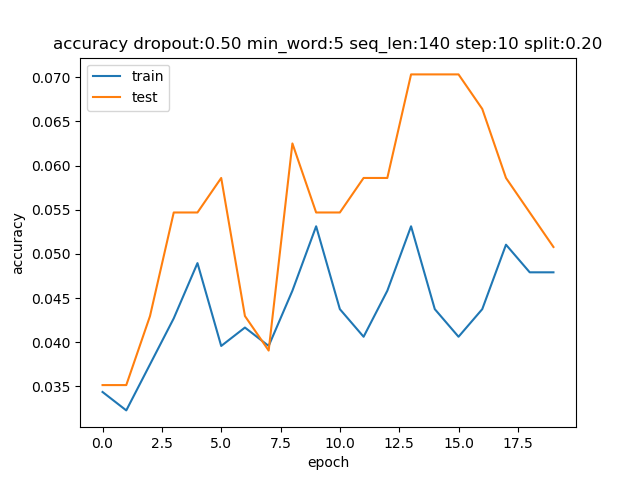
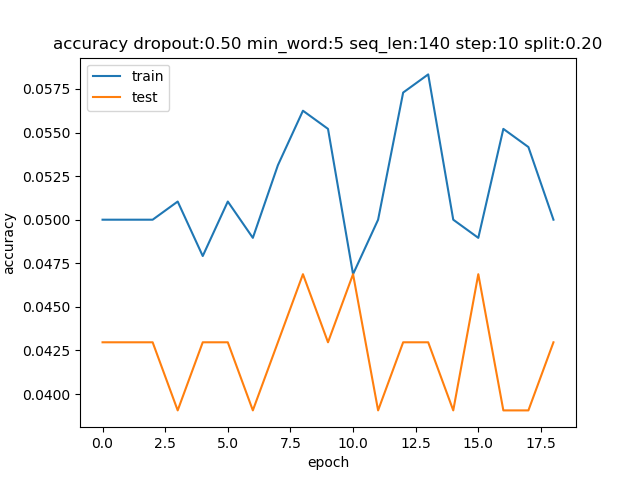
Update latest tests and output files.

diff --git a/read_data.py b/read_data.py
@@ -95,51 +95,49 @@ def reviewStats():
     f.close()
     
     keys = list(reviews.keys())
-    avg_chars = 0
-    avg_lines = 0
-    avg_chars_per_line = 0
-    avg_rating = 0
-    min_chars = float('inf')
-    max_chars = 0
-    min_lines = float('inf')
-    max_lines = 0
-    avg_rating = 0
+    valid_keys = 0
+    total_words = []
+    min_words = float('inf')
+    max_words = 0
+    thumbs_up = 0
+    thumbs_down = 0
     print("Total number of keys: ", len(keys))
     for key in keys:
+        if len(reviews[key].body) > 100:
+            continue
+            
+        valid_keys += 1
         body = reviews[key].body
-        lines = len(body)
-        avg_lines += lines
-        if lines > max_lines:
-            max_lines = lines 
-            max_key = key
-        if lines < min_lines:
-            min_lines = lines 
-            min_key = key
-        rating = reviews[key].rr
-        avg_rating += rating
-        for line in body:
-            chars = len(line)
-            avg_chars += chars
-            max_chars = chars if chars > max_chars else max_chars
-            min_chars = chars if lines < min_chars else min_chars
-    avg_lines /= len(keys)
-    avg_chars /= len(keys)
-    avg_chars_per_line = avg_chars / avg_lines
-    avg_rating /= len(keys)
+        txt = ''
+        for b in body:
+            if b == '\'Advertisement\'' or 'googletag.cmd.push' in b:
+                continue
+            b = b.lower()
+            b = re.sub('[^a-zA-z0-9\s]', '', b)
+            txt += b+' '
+        txt += '\n'
+        words = [w for w in txt.split(' ') if w.strip() != '' or w == '\n']
+        if len(words) > max_words:
+            max_words = len(words)
+        if len(words) < min_words:
+            min_words = len(words)
+        
+        for w in words:
+            total_words.append(w)
+            
+        if reviews[key].rr >= 3:
+            thumbs_up +=1
+        else:
+            thumbs_down +=1
     
-    print("Avg. line per review: ", avg_lines)
-    print("Max lines: ", max_lines)
-    print("Min lines: ", min_lines)
-    print("Avg. chars per review: ", avg_chars)
-    print("Max chars: ", max_chars)
-    print("Min chars: ", min_chars)
-    print("Avg. chars per line: ", avg_chars_per_line)
-    print("Avg. rating: ", avg_rating)
-    
-    print("Max lines review: ", reviews[max_key])
-    print("Min lines review: ", reviews[min_key])
-    print("Max lines rating: ", reviews[max_key].rr)
-    print("Min lines rating: ", reviews[min_key].rr)
+    print("Total reviews: ", valid_keys)
+    print("Corpus length: ", len(total_words))
+    print("Avg. words per review: ", len(total_words) / valid_keys)
+    print("Max words: ", max_words)
+    print("Min words: ", min_words)
+    print("Total unique words: ", len(set(total_words)))
+    print("Thumbs-ups: ", thumbs_up)
+    print("Thumbs-downs: ", thumbs_down)
             
 
 def getSummaries(argv):
@@ -218,5 +216,5 @@ def getSummaries(argv):
 
 if __name__ == '__main__':
     #getSummaries(sys.argv)
-    loadReviews()
-    #reviewStats()
+    #loadReviews()
+    reviewStats()

diff --git a/sentiment_analysis.py b/sentiment_analysis.py
@@ -29,19 +29,21 @@ import os
 import io
 import pandas as pd
 
-
+EMBED_DIM = 64
+MAX_FEATURES = 2000
+LSTM_OUT = 96
 DROPOUT = 0.5
 BATCH_SIZE = 32
-EPOCHS = 100
-MAX_FEATURES = 1000
+EPOCHS = 50
 SPLIT = 0.2
 CORPUS = "ebert_last5_2000.txt"
 RESULT = "result.txt"
 VOCABULARY = "vocab.txt"
 MODEL = None
+#MODEL = "checkpoints/Sentimentepoch040-loss0.4812-acc0.7683-val_loss0.7965-val_acc0.6151"
+KEY = "/reviews/the-crimson-rivers-2001"
 
-EMBED_DIM = 32
-LSTM_OUT = 48
+
 
 def loadReviews():
     f = open('store.pckl', 'rb')
@@ -105,6 +107,27 @@ if __name__ == "__main__":
     else:
         model = load_model(MODEL)
         model.summary()
+        
+    if KEY != None:
+        # Test example data:
+        text = [repr(reviews[KEY]).lower().replace('\n', ' \n ')]
+        print(KEY)
+        txt = tokenizer.texts_to_sequences(text)
+        txt = pad_sequences(txt, maxlen=X.shape[1], dtype='int32', value=0)
+        sentiment = model.predict(txt,batch_size=1)
+        print(sentiment)
+        print("Predicted with Ebert:  ", "thumbs-up" if np.argmax(sentiment[0]) >= 1 else "thumbs-down")
+        print("Ebert Actual:  ", "thumbs-up " if reviews[KEY].rr/3 >= 1 else "thumbs-down ", reviews[KEY].rr)
+
+        test_example = "integrated_example.txt"
+        with io.open(test_example, encoding='utf-8') as f:
+            text = [f.read().lower().replace('\n', ' \n ')]
+            txt = tokenizer.texts_to_sequences(text)
+            txt = pad_sequences(txt, maxlen=X.shape[1], dtype='int32', value=0)
+            sentiment = model.predict(txt,batch_size=1)
+            print(sentiment)
+            print("Predicted with WG:  ", "thumbs-up" if np.argmax(sentiment[0]) >= 1 else "thumbs-down")
+            print("Ebert Actual:  ", "thumbs-up " if reviews[KEY].rr/3 >= 1 else "thumbs-down ", reviews[KEY].rr)
     
     # summarize history for accuracy
     plt.plot(history.history['acc'])
@@ -136,10 +159,6 @@ if __name__ == "__main__":
     shuffled_keys = pickle.load(f)
     f.close()
 
-    #test_example = "example2.txt"
-    #with io.open(test_example, encoding='utf-8') as f:
-    #    text = f.read().lower().replace('\n', ' \n ')
-    #vectorizing the review by the pre-fitted tokenizer instance
     for key in shuffled_keys[-10:-1]:
         text = [repr(reviews[key]).lower().replace('\n', ' \n ')]
         print(key)
@@ -149,4 +168,3 @@ if __name__ == "__main__":
         print(sentiment)
         print("Predicted:  ", "thumbs-up" if np.argmax(sentiment[0]) >= 1 else "thumbs-down")
         print("Actual:  ", "thumbs-up " if reviews[key].rr/3 >= 1 else "thumbs-down ", reviews[key].rr)
-    

diff --git a/word_generation.py b/word_generation.py
@@ -32,17 +32,17 @@ import random
 
 MIN_WORD_FREQUENCY = 5
 SEQUENCE_LEN = 140
-STEP = 10
+STEP = 4
 DROPOUT = 0.5
 BATCH_SIZE = 32
 SPLIT=0.2
-EPOCHS = 20
+EPOCHS = 50
 #CORPUS = "ebert_last5_2000.txt"
 CORPUS = "roger_ebert_last5.txt"
 RESULT = "result_5_epoch10.txt"
 VOCABULARY = "vocab.txt"
 MODEL = None
-#MODEL = "checkpoints/LSTM-epoch001-words18707-sequence100-minfreq5-loss7.6702-acc0.0484-val_loss7.3704-val_acc0.0471"
+#MODEL = "checkpoints/LSTM-epoch010-words18707-sequence140-minfreq5-loss5.6837-acc0.0531-val_loss8.5211-val_acc0.0547"
 
 
 
@@ -131,7 +131,7 @@ def on_epoch_end(epoch, logs):
     #print(seed)
     text_in_words = [w for w in seed.split(' ') if w.strip() != '' or w == '\n']
     #print(text_in_words)
-    print("seed length: ", len(text_in_words))
+    #print("seed length: ", len(text_in_words))
 
     #for diversity in [0.3, 0.4, 0.5, 0.6, 0.7]:
     for diversity in [0.5, 1.0]:
@@ -248,6 +248,13 @@ if __name__ == "__main__":
     else:
         model = load_model(MODEL)
         model.summary()
+        
+        history = model.fit_generator(generator(sentences, next_words, BATCH_SIZE),
+                                      steps_per_epoch=int(len(sentences)/BATCH_SIZE) + 1,
+                                      epochs=EPOCHS,
+                                      callbacks=callbacks_list,
+                                      validation_data=generator(sentences_test, next_words_test, BATCH_SIZE),
+                                      validation_steps=int(len(sentences_test)/BATCH_SIZE) + 1)
         
     on_epoch_end(10, None)
     
